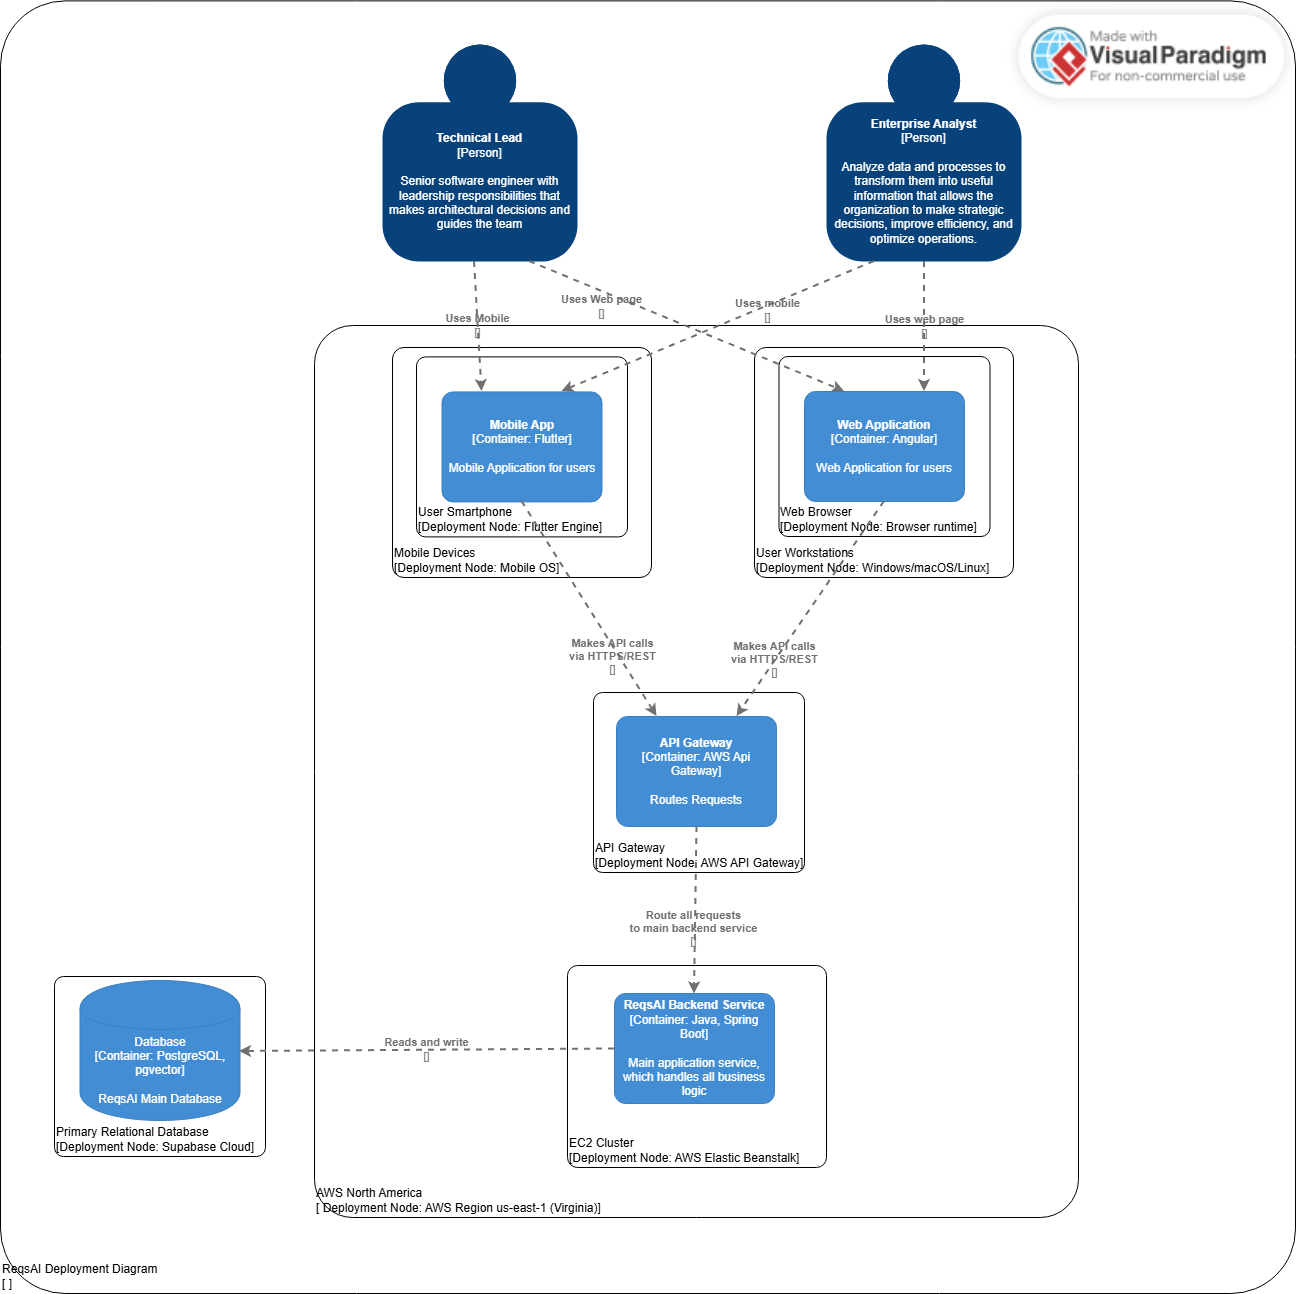
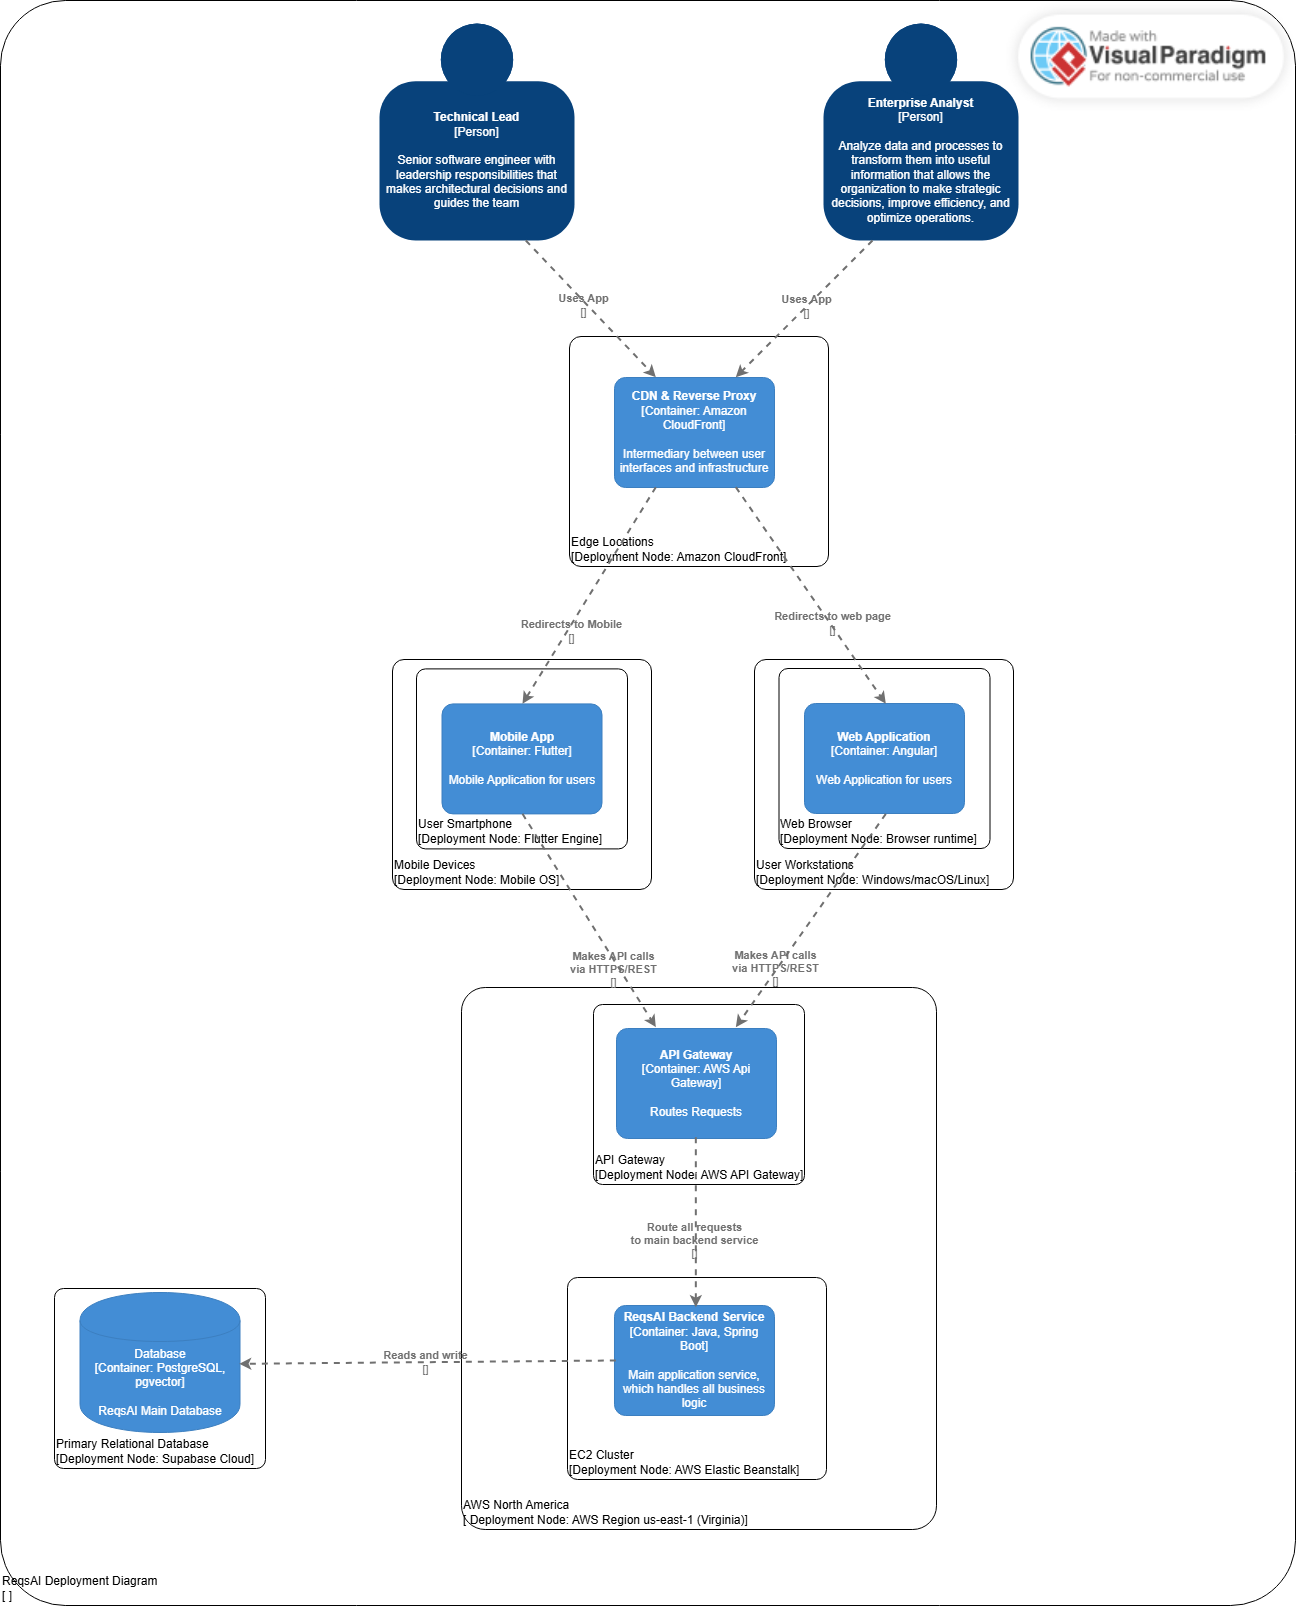
refactor: implement reverse proxy on architecture

diff --git a/README.md b/README.md
@@ -1531,8 +1531,9 @@ El sistema Reqs-AI está compuesto por los siguientes contenedores principales:
     *   **Web Application:** Es la plataforma principal para los usuarios. Permite una visualización completa para el análisis profundo de datos, revisión de historias de usuario, configuración de proyectos y gestión general del sistema. Se eligió **Angular** por ser un framework robusto, ideal para aplicaciones empresariales escalables.
     *   **Mobile App:** Proporciona accesibilidad móvil a los usuarios, permitiéndoles interactuar con el sistema, grabar reuniones o revisar el estado de los requerimientos desde cualquier lugar. Se optó por **Flutter** para asegurar un desarrollo multiplataforma eficiente (iOS y Android) con una base de código unificada.
 
-2.  **Punto de Entrada y Enrutamiento:**
-    *   **API Gateway:** Actúa como la puerta de entrada única para todas las peticiones (Requests) provenientes de las aplicaciones Web y Móvil. Su responsabilidad es enrutar estas solicitudes hacia los servicios de backend correspondientes, centralizando potencialmente políticas de seguridad, *throttling* y métricas.
+2.  **Distribución y Enrutamiento Perimetral (Edge):**
+    *   **CDN & Reverse Proxy:** Se posiciona como el intermediario absoluto entre las interfaces de usuario (Internet) y la infraestructura interna. Actúa como proxy inverso interceptando todas las peticiones web y móviles. Su función es servir los archivos estáticos de la Web App a alta velocidad desde ubicaciones globales, almacenar respuestas en caché, mitigar ataques (DDoS) y enrutar las peticiones dinámicas (API) hacia el Gateway. En el entorno AWS, la tecnología elegida es **Amazon CloudFront**.
+    *   **API Gateway:** Actúa como la puerta de entrada para todas las peticiones dinámicas (Requests) enrutadas desde el Reverse Proxy. Su responsabilidad es dirigir estas solicitudes hacia los servicios de backend correspondientes, gestionando el *throttling*, métricas de consumo y terminación SSL.
 
 3.  **Lógica Core (Backend - Monolito Modular):**
     *   **Reqs-AI Backend Application:** Se ha modelado con un límite punteado (boundary) que representa el despliegue unificado (Monolito Modular) desarrollado en **Java con Spring Boot**. En su interior, el backend está estrictamente dividido en los 5 Bounded Contexts previamente descubiertos, operando como servicios lógicos aislados:
@@ -1549,8 +1550,8 @@ El sistema Reqs-AI está compuesto por los siguientes contenedores principales:
 
 La arquitectura define un flujo de comunicación moderno y orientado a servicios:
 
-*   **Comunicación Cliente-Servidor:** Tanto la aplicación móvil como la web interactúan con el API Gateway realizando llamadas a través de **HTTPS/REST** y **WebSockets**, garantizando seguridad y soporte para streaming en tiempo real.
-*   **Comunicación Interna:** El API Gateway enruta las llamadas hacia el *Reqs-AI Backend Application*. Internamente, los Bounded Contexts se comunican mediante eventos en memoria (Domain Events) y persisten su estado de manera síncrona en la base de datos compartida (PostgreSQL).
+*   **Comunicación Cliente-Servidor (Internet):** Tanto la aplicación móvil como la web interactúan inicialmente con el **CDN & Reverse Proxy (CloudFront)** a través de **HTTPS**. El proxy inverso sirve la Web App (Angular) y enruta las llamadas de datos hacia el **API Gateway**. Todo el tráfico utiliza conexiones seguras (REST y WebSockets para el streaming de audio).
+*   **Comunicación Interna:** El API Gateway enruta las llamadas procesadas hacia el *Reqs-AI Backend Application*. Internamente, los Bounded Contexts se comunican mediante eventos en memoria (Domain Events) y persisten su estado de manera síncrona en la base de datos compartida (PostgreSQL).
 *   **Integración con Sistemas Externos:** En lugar de centralizar todas las salidas, las integraciones están descentralizadas y asignadas al Bounded Context correspondiente que las necesita:
     *   **IAM** envía credenciales y alertas a través del **Email Service Provider**.
     *   **Billing & Subscription** procesa transacciones a través del **Payment Gateway**.
@@ -1559,32 +1560,36 @@ La arquitectura define un flujo de comunicación moderno y orientado a servicios
 
 ### 4.3.4.	Software Architecture Deployment Diagrams
 
-En esta sección se presenta el diagrama de despliegue, el cual ilustra cómo los contenedores de software de ReqsAI se mapean a la infraestructura física o virtual. Este diagrama detalla los nodos de ejecución, los entornos operativos y la topología de red, priorizando una arquitectura viable, escalable y optimizada en costos.
+En esta sección se presenta el diagrama de despliegue, el cual ilustra cómo los contenedores de software de Reqs-AI se mapean a la infraestructura de la nube. Este diagrama detalla los nodos de ejecución, los entornos operativos y la topología de red, priorizando una arquitectura viable, escalable y optimizada en costos.
 
 ![Deployment Diagram](assets/4.Strategic-Level-Product-Design/4.3.Software-Architecture/Deployment.png)
 
 **Nodos de Despliegue y Distribución de Componentes**
 
-La infraestructura de despliegue se divide en los entornos de cliente, la infraestructura de procesamiento en AWS, y la persistencia de datos en una nube externa especializada.
+La infraestructura de despliegue se divide en los entornos de cliente, la red de entrega perimetral (Edge), la infraestructura de procesamiento core y la persistencia de datos.
 
 1.  **Entorno del Cliente (Client-Side):**
-    *   **Dispositivos físicos (iOS/Android).** Dentro opera el *Flutter Engine*, entorno encargado de ejecutar la aplicación mobile.
-    *   **Computadoras de los usuarios.** Utilizan un navegador web como nodo para renderizar la aplicación web.
+    *   **Dispositivos físicos (iOS/Android):** Dentro opera el *Flutter Engine*, entorno encargado de ejecutar la aplicación mobile.
+    *   **Computadoras de los usuarios:** Utilizan un navegador web como nodo de ejecución para renderizar la aplicación web (Angular).
 
-2.  **Entorno de Nube - Procesamiento (Server-Side - AWS):**
-    La lógica de negocio se aloja en AWS North America, específicamente en us-east-1 (Virginia), elegida por su alta disponibilidad y optimización de costos.
-    
-    *   **AWS API Gateway:** Actúa como el punto de entrada público único, completamente gestionado. Recibe las llamadas HTTPS/REST de los clientes y enruta las peticiones de manera segura hacia el backend.
-    *   **AWS Elastic Beanstalk:** Es el entorno PaaS (Platform as a Service) encargado de alojar el **ReqsAI Backend Service [Container: Java, Spring Boot]**. Elastic Beanstalk abstrae la complejidad de la infraestructura, aprovisionando servidores EC2 subyacentes, auto-escalado y monitoreo, permitiendo al equipo enfocarse únicamente en el código del runtime de Java.
+2.  **Entorno de Nube - Red Perimetral (AWS Edge Location):**
+    Para garantizar baja latencia y alta seguridad antes de que el tráfico llegue a los servidores principales, se utilizan los nodos Edge de AWS distribuidos globalmente.
+    *   **Amazon CloudFront (CDN & Reverse Proxy):** Actúa como el primer punto de contacto (Proxy Inverso). Almacena en caché los archivos estáticos de la Web App en ubicaciones cercanas al usuario para cargas instantáneas, y enruta de forma segura y eficiente el tráfico dinámico hacia la región principal de AWS.
 
-3.  **Entorno de Nube - Persistencia (Database as a Service):**
-    *   **Base de datos Relacional Principal:** Se delegó el almacenamiento de datos a Supabase, una plataforma BaaS (Backend as a Service). Esta decisión arquitectónica permite aprovechar una base de datos robusta, gestionada y con soporte nativo para *embeddings* vectoriales (esenciales para las funcionalidades de IA), reduciendo drásticamente la carga operativa y los costos iniciales en comparación con mantener instancias tradicionales de bases de datos.
+3.  **Entorno de Nube - Procesamiento (Server-Side - AWS North America):**
+    La lógica de negocio se aloja en AWS North America (us-east-1, Virginia), elegida por su alta disponibilidad y ecosistema completo de servicios.
+    *   **AWS API Gateway:** Recibe el tráfico dinámico enrutado desde CloudFront y funciona como el orquestador de las peticiones REST y WebSockets hacia el backend.
+    *   **AWS Elastic Beanstalk:** Es el entorno PaaS (Platform as a Service) encargado de alojar el **Reqs-AI Backend Application**. Elastic Beanstalk abstrae la complejidad de la infraestructura, aprovisionando servidores EC2 subyacentes, auto-escalado y monitoreo, permitiendo al equipo enfocarse únicamente en el código del runtime de Java.
+
+4.  **Entorno de Nube - Persistencia (Database as a Service):**
+    *   **Supabase Cloud (PostgreSQL):** Se delegó el almacenamiento a Supabase, una plataforma BaaS (Backend as a Service). Esta decisión permite aprovechar una base de datos PostgreSQL robusta, gestionada y con la extensión **pgvector** nativa (esencial para los *embeddings* y RAG de los requerimientos), reduciendo drásticamente la carga operativa y los costos.
 
 **Comunicación e Interacción de Nodos**
 
-*   Las aplicaciones (Mobile y Web) se comunican vía internet mediante **HTTPS/REST** con el **AWS API Gateway**.
-*   El API Gateway enruta el tráfico internamente hacia el entorno de **AWS Elastic Beanstalk**, donde reside la lógica del sistema.
-*   El backend de Spring Boot se conecta de manera externa y segura hacia el clúster gestionado en **Supabase Cloud** para realizar operaciones de lectura y escritura (*Reads and write*) de la información del dominio.
+*   Las aplicaciones (Mobile y Web) se comunican vía internet mediante **HTTPS** con el **Amazon CloudFront** ubicado en el *Edge Location* más cercano.
+*   CloudFront sirve los recursos estáticos web directamente y enruta las solicitudes API hacia el **AWS API Gateway** en la región de AWS North America.
+*   El API Gateway enruta el tráfico internamente hacia el entorno de **AWS Elastic Beanstalk**, donde reside la lógica del Monolito Modular.
+*   El backend de Spring Boot se conecta de manera externa y segura hacia el clúster gestionado en **Supabase Cloud** para realizar operaciones transaccionales (*Reads and writes*) sobre la base de datos compartida.
 
 # Capítulo V: Tactical-Level Software Design
 